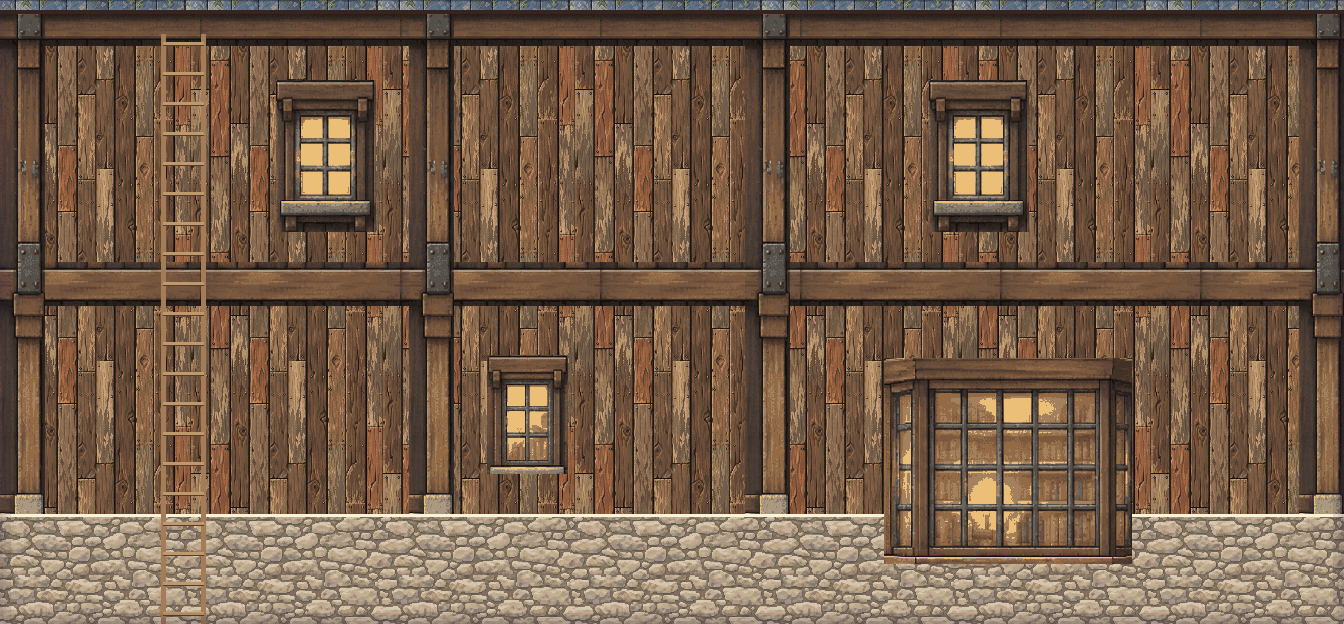
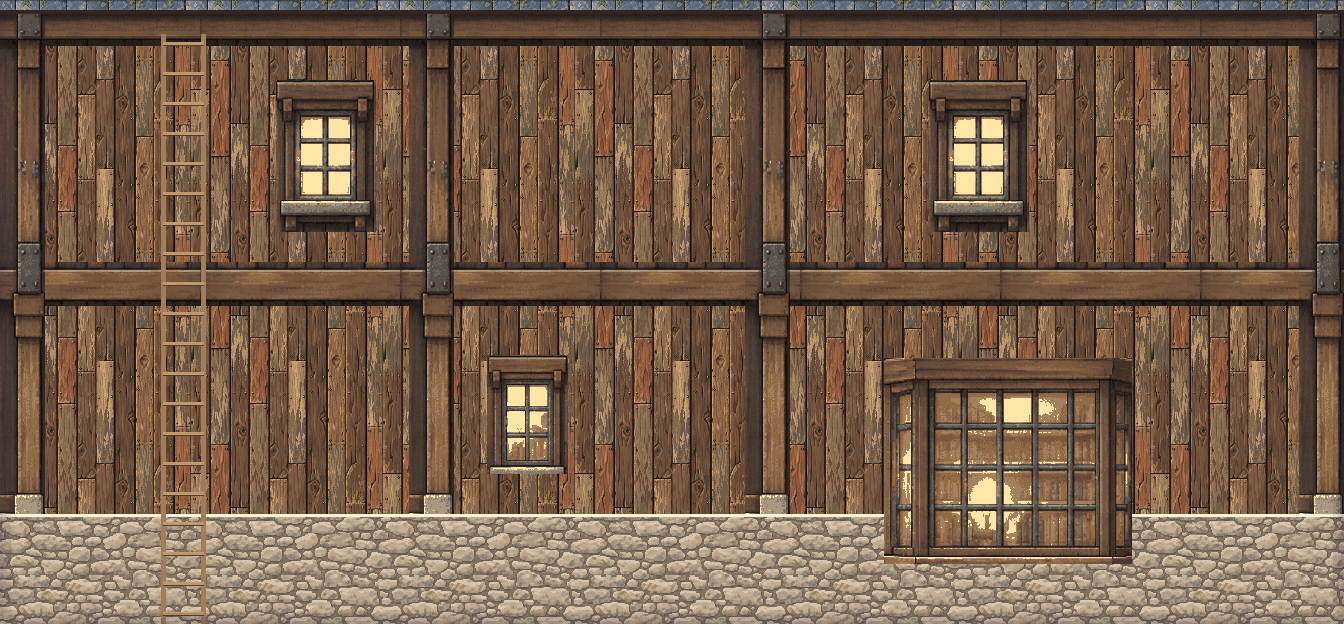
feat(t1): vitres des façades de l'entrepôt allumées la nuit (window_glow)
Claude-Session: https://claude.ai/code/session_019NfiSKjta1ymK1rKpk9RxJ

diff --git a/tools/hd2d_town.py b/tools/hd2d_town.py
@@ -1959,6 +1959,26 @@ def _frosted(piece):
     return out
 
 
+# Vitres éclairées de warehouse_main (#ECBF79) : ramenées près de la couleur de lueur des
+# panneaux (panel_core.gdshaderinc, glow_color #FFE6A6) pour que window_glow les allume la nuit.
+MAIN_PANE = (236, 191, 121)
+GLOW_PANE = (255, 230, 166)
+
+
+def _lit_panes(img):
+    px = img.load()
+    for y in range(img.height):
+        for x in range(img.width):
+            r, g, b, a = px[x, y]
+            if not a:
+                continue
+            gap = ((r - MAIN_PANE[0]) ** 2 + (g - MAIN_PANE[1]) ** 2 + (b - MAIN_PANE[2]) ** 2) ** 0.5
+            if gap < 40:
+                shade = 0.96 + 0.04 * min(1.0, (r + g + b) / float(sum(MAIN_PANE)))
+                px[x, y] = tuple(int(v * shade) for v in GLOW_PANE) + (a,)
+    return img
+
+
 def _scaled(piece, factor):
     if piece is None:
         return None
@@ -2008,7 +2028,7 @@ def _warehouse_front(size, rnd, posts, lower, upper, extras=()):
         paste_piece(c, pieces[kind], x * 96, bottoms[kind])
     img = c.img
     img.putalpha(Image.new("L", size, 255))
-    return img
+    return _lit_panes(img)
 
 
 def warehouse_front_a(size, rnd):
@@ -2070,7 +2090,8 @@ def warehouse_front_a_side(size, rnd):
         c.rect(6, top + 6, 14, h - 8, pipe[1])
         c.rect(7, top + 6, 9, h - 8, pipe[3])
         ivy(c, rnd, w * 0.78, w, top + 30, h - 40, 140)
-    return building_side(size, rnd, "wall_planks", "roof_slate", gable_wall_m=6.5, plinth=110, features=features)
+    return _lit_panes(
+        building_side(size, rnd, "wall_planks", "roof_slate", gable_wall_m=6.5, plinth=110, features=features))
 
 
 def warehouse_front_b_side(size, rnd):
@@ -2086,7 +2107,7 @@ def warehouse_front_b_side(size, rnd):
             paste_piece(c, facade_piece("warehouse_main", MAIN_WINDOW_UP), w * x / 14.0, h - 392)
         ladder(c, w * 0.12, top + 20, h, 40)
         c.rect(0, 0, w, 10, ramp(DARK, 4)[1])
-    return building_side(size, rnd, "wall_planks", "roof_slate", plinth=110, features=features)
+    return _lit_panes(building_side(size, rnd, "wall_planks", "roof_slate", plinth=110, features=features))
 
 
 RECIPES.update({
